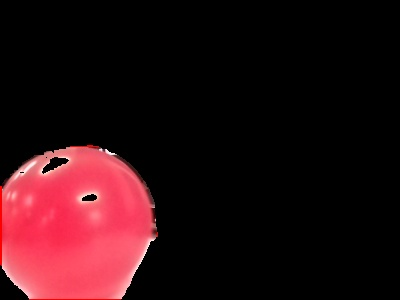
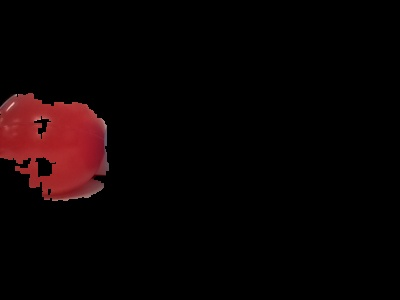
Color Sequence Kinda Works?

Changed region(s): [[0.0, 0.3, 0.42, 1.0]]

diff --git a/Code/Client/Video.py b/Code/Client/Video.py
@@ -14,7 +14,7 @@ from Command import COMMAND as cmd
 import time
 
 class VideoStreaming:
-    def __init__(self, Color):
+    def __init__(self):
         self.face_cascade = cv2.CascadeClassifier(r'haarcascade_frontalface_default.xml')
         self.video_Flag=True
         self.connect_Flag=False
@@ -25,9 +25,10 @@ class VideoStreaming:
         self.blueArea = 0
         self.greenArea = 0
         self.yellowArea = 0
-        self.color1 = ""
-        self.Color= Color
-        self.last_seen = ''
+        self.current_color = ''
+
+        self.color = ''
+        self.TargetFound = False
         
         
 
@@ -41,7 +42,7 @@ class VideoStreaming:
             self.client_socket.close()
             self.client_socket1.close()
         except:
-            pass
+            print("Stop TCP")
 
     def IsValidImage4Bytes(self,buf):
         bValid = True
@@ -53,6 +54,7 @@ class VideoStreaming:
                 Image.open(io.BytesIO(buf)).verify()
             except:  
                 bValid = False
+                print("is valid image")
         return bValid
 
     def face_detect(self,img):
@@ -287,20 +289,19 @@ class VideoStreaming:
     def colorandball(self,img,color):
         self.color = color
         if sys.platform.startswith('win') or sys.platform.startswith('darwin'):
-            
             hsvFrame = cv2.cvtColor(img, cv2.COLOR_BGR2HSV)
             
             low = []
             upp = []
             
+            print(self.color)
+            
             colorball = ''
             
-            # colorarray = x[i]
-            
-            if (self.color == 'Red'):
+            if self.color == 'Red':
                 low = [136,87,111]
                 upp = [180,255,255]
-                colorball = 'Red Ball'           
+                colorball = 'Red Ball'         
                 
             if self.color == 'Green':
                 low = [45,120,100]
@@ -321,6 +322,7 @@ class VideoStreaming:
                 
             lower = np.array(low, np.uint8)
             upper = np.array(upp, np.uint8)
+            
             
             _mask = cv2.inRange(hsvFrame, lower, upper)
             
@@ -416,6 +418,7 @@ class VideoStreaming:
                     # Draw label
                     object_name = labels[int(classes[i])] # Look up object name from "labels" array using class index
                     label = '%s: %d%%' % (colorball, int(scores[i]*100)) # Example: 'person: 72%'
+                    self.TargetFound = True
                     labelSize, baseLine = cv2.getTextSize(label, cv2.FONT_HERSHEY_SIMPLEX, 0.7, 2) # Get font size
                     label_ymin = max(ymin, labelSize[1] + 10) # Make sure not to draw label too close to top of window
                     cv2.rectangle(frame, (xmin,ymin), (xmax,ymax), (10, 255, 0), 2)
@@ -445,22 +448,36 @@ class VideoStreaming:
         cv2.imwrite('video.jpg', frame)
         
             
-    
+    # def HyperspaceTracking(self):
+    #     self.c=self.Color.text()
+    #     Random = self.c.split(",")
+        
+    #     stream_bytes= self.connection.read(4)
+    #     leng=struct.unpack('<L', stream_bytes[:4])
+    #     jpg=self.connection.read(leng[0])
+        
+    #     if sys.platform.startswith('win') or sys.platform.startswith('darwin'):
+    #         image = cv2.imdecode(np.frombuffer(jpg, dtype=np.uint8), cv2.IMREAD_COLOR)
+    #         for i in Random:
+    #             self.colorandball(image,i)
                         
         
     def streaming(self,ip):
         stream_bytes = b' '
         try:
             self.client_socket.connect((ip, 8000))
+            self.client_socket.settimeout(5)
             self.connection = self.client_socket.makefile('rb')
-        except:
-            #print "command port connect failed"
-            pass
+        except Exception as e:
+            print(e)
+            print ("command port connect failed")
         while True:
-            try:
+            # try:
                 stream_bytes= self.connection.read(4)
+                # print("done reading")
                 leng=struct.unpack('<L', stream_bytes[:4])
                 jpg=self.connection.read(leng[0])
+                # print("here1")
                 if self.IsValidImage4Bytes(jpg):
                             image = cv2.imdecode(np.frombuffer(jpg, dtype=np.uint8), cv2.IMREAD_COLOR)
                             if self.video_Flag:
@@ -469,18 +486,21 @@ class VideoStreaming:
                                 # self.c=self.Color.text()
                                 # self.Random = self.Color.split(",")
                                 # print(Random)
-                                
-                                self.HyperspaceTracking()
-                                
-                                    
+                                # self.colorandball(image,self.current_color)
+                                # print(self.Color)
+                                try:
+                                    self.colorandball(image,self.color)
+                                except:
+                                    self.color_detect(image)
                                 # self.colorandball(image,'Red')
                                 # self.colorandball(image,'green')
                                 # self.colorandball(image,'blue',Randy)
                                 # self.colorandball(image,'yellow')
-                                self.video_Flag=False
-            except Exception as e:
-                print (e)
-                break
+                            self.video_Flag=False
+            # except Exception as e:
+            #     print (e)
+            #     print("streaming")
+            #     break
                  
     def sendData(self,s):
         if self.connect_Flag:
@@ -492,7 +512,7 @@ class VideoStreaming:
         try:
             data=self.client_socket1.recv(1024).decode('utf-8')
         except:
-            pass
+            print("recvData")
         return data
 
 
@@ -505,18 +525,7 @@ class VideoStreaming:
             print ("Connect to server Failed!: Server IP is right? Server is opened?")
             self.connect_Flag=False
 
-    def HyperspaceTracking(self):
-        self.c=self.Color.text()
-        Random = self.c.split(",")
-        
-        stream_bytes= self.connection.read(4)
-        leng=struct.unpack('<L', stream_bytes[:4])
-        jpg=self.connection.read(leng[0])
-        
-        if sys.platform.startswith('win') or sys.platform.startswith('darwin'):
-            image = cv2.imdecode(np.frombuffer(jpg, dtype=np.uint8), cv2.IMREAD_COLOR)
-            for i in Random:
-                self.colorandball(image,i)
+    
 
 
 

diff --git a/Code/Client/Main.py b/Code/Client/Main.py
@@ -27,9 +27,9 @@ class mywindow(QMainWindow,Ui_Client):
         self.endChar='\n'
         self.intervalChar='#'
         self.h=self.IP.text()
-        self.h=self.Color.text()
         self.c = self.Color.text()
-        self.TCP=VideoStreaming(self.Color)
+        print(self.Color, "video", self.c)
+        self.TCP=VideoStreaming()
         self.servo1=90
         self.servo2=90
         self.label_FineServo2.setText("0")
@@ -51,6 +51,9 @@ class mywindow(QMainWindow,Ui_Client):
         self.label_Video.setAlignment(QtCore.Qt.AlignCenter|QtCore.Qt.AlignVCenter)
         self.label_Servo1.setAlignment(QtCore.Qt.AlignCenter|QtCore.Qt.AlignVCenter)
         self.label_Servo2.setAlignment(QtCore.Qt.AlignCenter|QtCore.Qt.AlignVCenter)
+        
+        
+        self.done_scan = False
         
         self.label_FineServo1.setAlignment(QtCore.Qt.AlignCenter|QtCore.Qt.AlignVCenter)
         self.label_FineServo2.setAlignment(QtCore.Qt.AlignCenter|QtCore.Qt.AlignVCenter)
@@ -468,12 +471,15 @@ class mywindow(QMainWindow,Ui_Client):
     def on_btn_Mode(self,Mode):
         if Mode.text() == "M-Free":
             if Mode.isChecked() == True:
-                #self.timer.start(34)
+                print("Stop Sequencing Searching")
+                stop_thread(self.Sequence_searching)
                 self.TCP.sendData(cmd.CMD_MODE+self.intervalChar+'one'+self.endChar)
         if Mode.text() == "M-Light":
             if Mode.isChecked() == True:
                 #self.timer.stop()
-                self.TCP.sendData(cmd.CMD_MODE+self.intervalChar+'two'+self.endChar)
+                # self.TCP.sendData(cmd.CMD_MODE+self.intervalChar+'two'+self.endChar)
+                self.start_sequence_tracking = Thread(target = self.Sequence_searching)
+                self.start_sequence_tracking.start()
         if Mode.text() == "M-Sonic":
             if Mode.isChecked() == True:
                 #self.timer.stop()
@@ -488,7 +494,7 @@ class mywindow(QMainWindow,Ui_Client):
         if self.Btn_Connect.text() == "Connect":
             self.h=self.IP.text()
             self.c=self.Color.text()
-            self.TCP.StartTcpClient(self.h,)
+            self.TCP.StartTcpClient(self.h)
             Random = self.c.split(",")
             print(Random)
             try:
@@ -630,11 +636,35 @@ class mywindow(QMainWindow,Ui_Client):
             if  self.is_valid_jpg('video.jpg'):
                 self.label_Video.setPixmap(QPixmap('video.jpg'))
                 if self.Btn_Tracking_Faces.text()=="Tracing-Off":
-                    self.find_Face(self.TCP.face_x,self.TCP.face_y)
-                    # self.colorDetect()
+                    # self.find_Face(self.TCP.face_x,self.TCP.face_y)
+                    self.colorDetect()
         except Exception as e:
             print(e)
         self.TCP.video_Flag=True
+        
+    def Sequence_searching(self):
+        sequence = self.c.split(",")
+        for x in sequence:
+            self.TCP.color = x
+            print(x)
+            if self.done_scan == False:
+                self.SequenceLocking()
+                time.sleep(1.5)
+            else:
+                print("Target not sighted")
+            
+    
+    def SequenceLocking(self):
+        for x in range(1):
+            if self.TCP.TargetFound == False:
+                print("Target located")
+                time.sleep(.5)
+                self.done_scan == True
+                return
+            else:
+                print("Target not sighted")
+            
+            
         
             
 if __name__ == '__main__':
